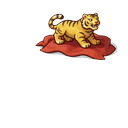
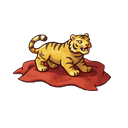
v0.2.13: 오른쪽 버튼 아이콘을 무게중심·면적 기준으로 맞추고 바탕을 덜 투명하게

diff --git a/samguk-rtd.html b/samguk-rtd.html
@@ -720,17 +720,17 @@ html[lang="en"] #battlebtn, html[lang="zh"] #battlebtn { font-size: 34px; }
    이름은 아래 그림자 글씨. 자동이 켜지면 은은한 초록 빛줄기가 둘레를 돌고 화살표도 돈다 ---- */
 #rail { gap: 4px; }
 .rb { width: 56px; height: auto; padding: 0; gap: 1px; border: 0; border-radius: 0; background: none; box-shadow: none; color: #fff; font: 700 10px/1.2 var(--ui); overflow: visible; }
-.rb .rc { position: relative; width: 44px; height: 44px; border-radius: 50%; display: grid; place-items: center; font-style: normal; background: rgba(14, 10, 8, .42); box-shadow: 0 2px 8px rgba(0, 0, 0, .28); transition: transform .08s, background .15s; }
-.rb:active .rc { transform: scale(.92); background: rgba(14, 10, 8, .6); }
-.rb .ri { width: 32px; height: 32px; object-fit: contain; pointer-events: none; filter: drop-shadow(0 1px 2px rgba(0, 0, 0, .55)); }
+.rb .rc { position: relative; width: 44px; height: 44px; border-radius: 50%; display: grid; place-items: center; font-style: normal; background: rgba(14, 10, 8, .66); box-shadow: 0 2px 8px rgba(0, 0, 0, .35); transition: transform .08s, background .15s; }
+.rb:active .rc { transform: scale(.92); background: rgba(14, 10, 8, .82); }
+.rb .ri { width: 40px; height: 40px; object-fit: contain; pointer-events: none; filter: drop-shadow(0 1px 2px rgba(0, 0, 0, .55)); }
 .rb .ic { width: 24px; height: 24px; margin: 0; color: rgba(255, 255, 255, .55); stroke-width: 2.2; }
 .rb > span:not(.dot) { max-width: 60px; padding: 0 2px; background: none; border-radius: 0; overflow: hidden; text-overflow: ellipsis; white-space: nowrap; color: rgba(255, 255, 255, .92); text-shadow: 0 1px 2px #000, 0 0 5px rgba(0, 0, 0, .9); }
 .rb .dot { top: -2px; right: 2px; min-width: 16px; padding: 0 3px; font: 800 10px/16px var(--ui); border-radius: 8px; background: #e5483a; box-shadow: none; color: #fff; z-index: 2; }
 .rb.cur { background: none; }
-.rb.cur .rc { background: rgba(255, 214, 120, .34); box-shadow: 0 0 12px rgba(255, 200, 90, .45); }
+.rb.cur .rc { background: rgba(120, 84, 30, .78); box-shadow: 0 0 12px rgba(255, 200, 90, .45); }
 .rb.cur > span:not(.dot) { color: #ffe9a8; }
 .rb.on { border: 0; box-shadow: none; }
-.rb.on .rc { background: rgba(40, 110, 60, .38); box-shadow: 0 0 12px rgba(125, 255, 142, .32); }
+.rb.on .rc { background: rgba(22, 70, 36, .68); box-shadow: 0 0 12px rgba(125, 255, 142, .32); }
 .rb.on .ic { color: #c8ffd0; animation: rbspin 2.8s linear infinite; }
 .rb.on > span:not(.dot) { color: #c8ffd0; }
 .rb.on .rc::before { content: ''; position: absolute; inset: 0; border-radius: 50%; pointer-events: none;
@@ -738,8 +738,8 @@ html[lang="en"] #battlebtn, html[lang="zh"] #battlebtn { font-size: 34px; }
   -webkit-mask: radial-gradient(farthest-side, transparent calc(100% - 2.5px), #000 calc(100% - 2px)); mask: radial-gradient(farthest-side, transparent calc(100% - 2.5px), #000 calc(100% - 2px));
   animation: rbspin 1.8s linear infinite; }
 @keyframes rbspin { to { transform: rotate(360deg); } }
-@media (max-height: 430px) { .rb { width: 52px; } .rb .rc { width: 41px; height: 41px; } .rb .ri { width: 30px; height: 30px; } .rb .ic { width: 22px; height: 22px; } #rail { gap: 3px; } }
-@media (min-height: 600px) { .rb { width: 72px; font-size: 12.5px; } .rb .rc { width: 58px; height: 58px; } .rb .ri { width: 42px; height: 42px; } .rb .ic { width: 31px; height: 31px; } .rb > span:not(.dot) { max-width: 76px; } #rail { gap: 7px; } }
+@media (max-height: 430px) { .rb { width: 52px; } .rb .rc { width: 41px; height: 41px; } .rb .ri { width: 37px; height: 37px; } .rb .ic { width: 22px; height: 22px; } #rail { gap: 3px; } }
+@media (min-height: 600px) { .rb { width: 72px; font-size: 12.5px; } .rb .rc { width: 58px; height: 58px; } .rb .ri { width: 52px; height: 52px; } .rb .ic { width: 31px; height: 31px; } .rb > span:not(.dot) { max-width: 76px; } #rail { gap: 7px; } }
 /* ---- 로비 5차: 메뉴는 그린 물건 아이콘(돈주머니·투구·죽간), 창은 비단 두루마리, 탭은 군기 모양 ----
    그림: gfx/ic_shop.png, ic_rank.png, ic_hist.png(아이콘), ui_silk.jpg(구름무늬 비단) */
 #lmenu { grid-template-columns: repeat(3, 84px); gap: 10px; }

diff --git a/ui.js b/ui.js
@@ -3024,7 +3024,7 @@
   };
   // 오른쪽 버튼 아이콘: 강화·명사·선택권·전황은 그린 그림(gfx/ic_*.png), 자동은 도는 화살표(켜져 있으면 CSS로 빙글빙글 돈다)
   const RAIL_PIC = { upgrade: 1, sage: 1, ticket: 1, war: 1 };
-  const rIcon = (k) => (RAIL_PIC[k] ? `<img class="ri" alt="" src="gfx/ic_${k}.png?v=2">` : `<svg class="ic" viewBox="0 0 24 24" aria-hidden="true"><path d="${RAIL_ICON[k]}"/></svg>`);
+  const rIcon = (k) => (RAIL_PIC[k] ? `<img class="ri" alt="" src="gfx/ic_${k}.png?v=3">` : `<svg class="ic" viewBox="0 0 24 24" aria-hidden="true"><path d="${RAIL_ICON[k]}"/></svg>`);
   function renderHud() {
     const vp = viewedPeer(), ln = vp && vp.state.ln;
     const gold = ln ? ln.g : g.me.gold, lives = ln ? ln.l : g.lives, en = ln ? ln.n : g.enemyCount(), own = ln ? ln.u.length : g.units.filter((u) => u.owner === 0).length;

diff --git a/src/ui/16-hud.js b/src/ui/16-hud.js
@@ -9,7 +9,7 @@
   };
   // 오른쪽 버튼 아이콘: 강화·명사·선택권·전황은 그린 그림(gfx/ic_*.png), 자동은 도는 화살표(켜져 있으면 CSS로 빙글빙글 돈다)
   const RAIL_PIC = { upgrade: 1, sage: 1, ticket: 1, war: 1 };
-  const rIcon = (k) => (RAIL_PIC[k] ? `<img class="ri" alt="" src="gfx/ic_${k}.png?v=2">` : `<svg class="ic" viewBox="0 0 24 24" aria-hidden="true"><path d="${RAIL_ICON[k]}"/></svg>`);
+  const rIcon = (k) => (RAIL_PIC[k] ? `<img class="ri" alt="" src="gfx/ic_${k}.png?v=3">` : `<svg class="ic" viewBox="0 0 24 24" aria-hidden="true"><path d="${RAIL_ICON[k]}"/></svg>`);
   function renderHud() {
     const vp = viewedPeer(), ln = vp && vp.state.ln;
     const gold = ln ? ln.g : g.me.gold, lives = ln ? ln.l : g.lives, en = ln ? ln.n : g.enemyCount(), own = ln ? ln.u.length : g.units.filter((u) => u.owner === 0).length;

diff --git a/version.js b/version.js
@@ -1,2 +1,2 @@
 // 자동 생성(scripts/build-ui.js). 버전은 package.json에서 바꾼다.
-window.RTD_VERSION = "0.2.12";
+window.RTD_VERSION = "0.2.13";
